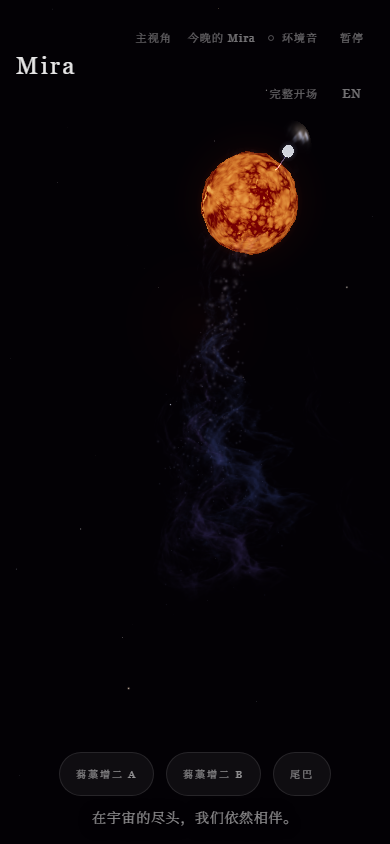
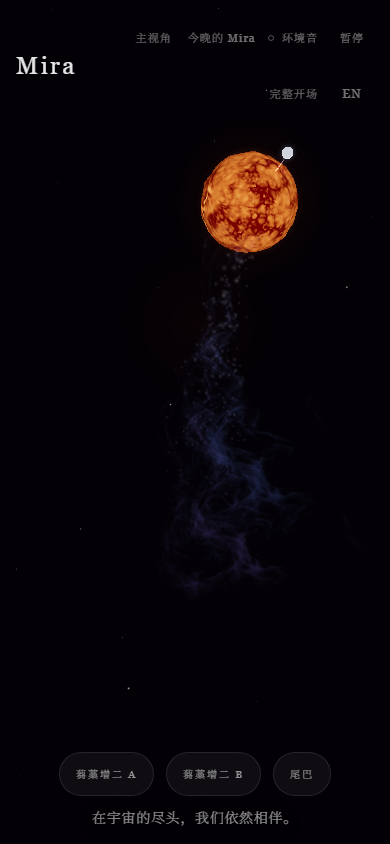
Make capture frames honest in portrait, and settle the review's P3 leftovers (#104)
* Make capture frames honest in portrait, and settle the review's P3 leftovers

The capture baseline in portrait bound the stored EXPLORE constant, so at
320x568 an evidence frame parked the pair about 8 screen points above the
framing a viewer actually holds, and the max-light halo read as padding
into the 顶栏 — a composition no viewer ever sees (#102). The baseline now
goes through the same per-aspect pin solve as the live camera; landscape
and the reference aspect are bit-unchanged. The outer haze's clearance
over the control row is pinned at both named widths — the shell's radius
never breathes, only its brightness does.

The three P3 leftovers (#103): the surface noise clock stops borrowing
the retired time-speed name; the frozen-settle 终幕标题 test measures the
real English title box instead of assuming it; and the river veil's far
fade narrows by uniform in portrait so the ribbon accompanies the points
deeper down the long scroll while still dissolving before its cut.

* Add #102's evidence frames: the capture drift, the fix, and the live reference

* Pay the review round: the mid-light evidence pair, and the transitivity note

* Give CI twenty minutes: the 15m wall cancelled a fully green run

diff --git a/tests/e2e/mobile.spec.ts b/tests/e2e/mobile.spec.ts
@@ -2,7 +2,9 @@ import { test, expect } from '@playwright/test';
 import type { Page } from '@playwright/test';
 import { openTailCardViaKeyboard } from './helpers';
 import { calculateOrbitalPosition, PHYSICS } from '../../src/constants/physics';
+import { TRANSLATIONS } from '../../src/constants/translations';
 import { resolveOpeningPose } from '../../src/lib/openingTimeline';
+import { TAIL_ROOT } from '../../src/lib/tailPath';
 import {
   PORTRAIT_REFERENCE_ASPECT,
   PORTRAIT_TILT,
@@ -224,6 +226,25 @@ test.describe('竖屏长卷 (#92): the portrait long scroll', () => {
       const starPy = (live[1] / 100) * PORTRAIT_FRAME.height;
       expect(starPy + margin).toBeLessThan(titleBox!.y);
     }
+
+    // #103: PR #100 claimed the 终幕标题 gap held at both language anchors, but the
+    // English title box was never measured. The block is anchored at top-1/3, so the
+    // English subtitle can only wrap downward — the measured box never grows up
+    // toward the pair (at 390×844 it stays one line, same height as the Chinese).
+    // Measured here so the claim is true the honest way.
+    await page.getByTestId('language-toggle').click();
+    await expect(page.getByTestId('opening-subtitle')).toHaveText(TRANSLATIONS.en.subtitle);
+    const enBox = await page.getByTestId('final-title').boundingBox();
+    expect(enBox!.y).toBeCloseTo(titleBox!.y, 0);
+    expect(enBox!.height).toBeGreaterThanOrEqual(titleBox!.height);
+    for (const [name, star] of [
+      ['data-mira-a-screen', 'primary'],
+      ['data-mira-b-screen', 'companion'],
+    ] as const) {
+      const live = await probe(page, name);
+      const { margin } = disc(star);
+      expect((live[1] / 100) * PORTRAIT_FRAME.height + margin).toBeLessThan(enBox!.y);
+    }
   });
 
   test('the 顶栏 never covers the pair (390×844)', async ({ page }) => {
@@ -288,6 +309,41 @@ test.describe('竖屏长卷 (#92): the portrait long scroll', () => {
     const b = await probe(page, 'data-mira-b-screen');
     expect((a[1] / 100) * SE_HEIGHT - marginA).toBeGreaterThan(barBottom);
     expect((b[1] / 100) * SE_HEIGHT - marginB).toBeGreaterThan(barBottom);
+  });
+
+  test('the capture baseline is the live pin-solved framing, whatever the aspect (320×568, #102)', async ({ page }) => {
+    // #102: the capture pose used to bind the stored EXPLORE constant — calibrated
+    // at 390×844 — at whatever aspect the frame had. Bound raw at 320×568 it parked
+    // the pair about 8 screen points higher than the framing a viewer actually
+    // holds, and the max-light halo then read as padding into the 顶栏 in evidence
+    // frames while the live view stayed clear. Evidence frames must show the live
+    // composition: the capture baseline goes through the same per-aspect pin solve.
+    // The equality with the live framing is transitive — the reduced-motion test
+    // above pins the live probes to this same seam — so both reads target it here.
+    // The worst case is expressed with ?epoch= (the halo swells with brightness,
+    // never with uTime).
+    await page.setViewportSize({ width: 320, height: 568 });
+    await page.goto('/?quality=low&capture=1&cam=default&epoch=2027-03-09T00%3A00%3A00Z');
+    await page.waitForLoadState('networkidle');
+    await expect(page.getByTestId('explore-ui')).toBeVisible({ timeout: 15000 });
+    await expect(page.locator('canvas')).toHaveAttribute('data-camera-pose', /.+/, { timeout: 30000 });
+    await page.waitForTimeout(1500);
+
+    // Capture parks the orbit at CAPTURE_TIME (8), so the pair's home for this
+    // frame is the orbital position at t=8 — the seam computes the same numbers.
+    const parked = calculateOrbitalPosition(8, PHYSICS.ORBIT);
+    const SE_ASPECT = 320 / 568;
+    const pose = portraitExplorePose(SE_ASPECT);
+    for (const [name, point] of [
+      ['data-mira-a-screen', parked.primary],
+      ['data-mira-b-screen', parked.companion],
+      ['data-tail-root-screen', TAIL_ROOT],
+    ] as const) {
+      const live = await probe(page, name);
+      const expected = projectToScreenPercent(point, pose, SE_ASPECT, PORTRAIT_TILT);
+      expect(Math.abs(live[0] - expected.x)).toBeLessThan(1.5);
+      expect(Math.abs(live[1] - expected.y)).toBeLessThan(1.5);
+    }
   });
 
   test('landscape keeps its own wide vista — not the portrait frame cropped (844×390)', async ({

diff --git a/src/components/Scene/RiverVeil.tsx b/src/components/Scene/RiverVeil.tsx
@@ -6,7 +6,7 @@ import type { QualityTier } from '../../constants';
 import { useEntryReadiness } from '../../hooks';
 import { materialFade } from '../../lib/entryReadiness';
 import { qualityBudget } from '../../lib/qualityBudget';
-import { veilRibbon, veilSide } from '../../lib/tailPath';
+import { veilRibbon, veilSide, VEIL_FAR_SPAN, PORTRAIT_VEIL_FAR_SPAN } from '../../lib/tailPath';
 import { advanceTime, parkedFade } from '../../lib/captureMode';
 import {
   MIRA_A_REACH,
@@ -43,6 +43,7 @@ const fragmentShader = `
   uniform float uReady;
   uniform float uLayer;
   uniform float uAccent;
+  uniform float uFarSpan;
   uniform vec2 uUvScale;
   uniform vec2 uUvOffset;
   uniform vec3 uColor;
@@ -75,7 +76,11 @@ const fragmentShader = `
     float lane = exp(-pow((vUv.y - laneCenter) / .19, 2.));
     float volume = smoothstep(.08, .78, density);
     float filament = smoothstep(.42, .88, density) * lane;
-    float edge = smoothstep(0., .08, vUv.x) * (1. - smoothstep(.94, 1., vUv.x));
+    // The far fade's width comes in as a uniform (#103): landscape binds
+    // VEIL_FAR_SPAN — the same number that used to be the literal here, bit-exact —
+    // and portrait binds PORTRAIT_VEIL_FAR_SPAN so the ribbon's body eases out
+    // later, mirroring the points' own portrait far fade (tailPath owns both).
+    float edge = smoothstep(0., uFarSpan, vUv.x) * (1. - smoothstep(.94, 1., vUv.x));
     edge *= smoothstep(0., .12, vUv.y) * (1. - smoothstep(.88, 1., vUv.y));
 
     // Lit near the stars, easing into cool (not black) shadow down the tail.
@@ -119,6 +124,7 @@ function createLayer(length: number, index: number, count: number, accent: boole
       uMap: { value: null }, uReady: { value: 0 }, uTime: { value: 0 },
       uOpacity: { value: 0 }, uLayer: { value: index },
       uAccent: { value: accent ? 1 : 0 },
+      uFarSpan: { value: VEIL_FAR_SPAN },
       uUvScale: { value: new THREE.Vector2(1.03 + index * .17, .92 + (index % 3) * .21) },
       uUvOffset: { value: new THREE.Vector2(index * .193, index * .117) },
       uColor: { value: new THREE.Color(accent
@@ -137,7 +143,7 @@ function createLayer(length: number, index: number, count: number, accent: boole
   return { geometry, material };
 }
 
-export default function RiverVeil({ opacityRef, readyRef, length, reduceMotion, miraBRef, sky, tier }: {
+export default function RiverVeil({ opacityRef, readyRef, length, reduceMotion, miraBRef, sky, tier, portrait }: {
   opacityRef: MutableRefObject<number>;
   readyRef: MutableRefObject<boolean>;
   length: number;
@@ -148,6 +154,9 @@ export default function RiverVeil({ opacityRef, readyRef, length, reduceMotion, 
   sky: DailySkyCoupling;
   // The governed tier — same source Scene spends the rest of the budget from.
   tier: QualityTier;
+  // 竖屏长卷 (#103): the ribbon's far fade eases later in the tall frame, the veil's
+  // own half of the points' portrait far fade (PORTRAIT_VEIL_FAR_SPAN).
+  portrait: boolean;
 }) {
   const groupRef = useRef<THREE.Group>(null);
   const bWorldPos = useRef(new THREE.Vector3());
@@ -224,6 +233,8 @@ export default function RiverVeil({ opacityRef, readyRef, length, reduceMotion, 
       material.uniforms.uReady.value = ready;
       material.uniforms.uTime.value = advanceTime(material.uniforms.uTime.value, delta, { reduceMotion });
       const isAccent = material.uniforms.uAccent.value === 1;
+      // Written every frame like the tail's own uFarFade, so a rotation flips it.
+      material.uniforms.uFarSpan.value = portrait ? PORTRAIT_VEIL_FAR_SPAN : VEIL_FAR_SPAN;
       material.uniforms.uOpacity.value = opacityRef.current * veilLayerWeight(i, count, isAccent) / count * sky.density;
       material.uniforms.uMiraBPos.value.copy(bWorldPos.current);
       material.uniforms.uSkyGain.value = sky.gain;

diff --git a/tests/unit/portraitFraming.spec.ts b/tests/unit/portraitFraming.spec.ts
@@ -11,6 +11,7 @@ import {
   screenDiscRadiusPercent,
 } from '../../src/lib/portraitFraming';
 import { TAIL_ROOT, tailCenterline, tailFarEnd, tailMidProbe, yawY } from '../../src/lib/tailPath';
+import { MIRA_A_ATMOSPHERE } from '../../src/shaders/miraA';
 
 // 竖屏长卷 (#92): the portrait free-viewing framing as geometry, not pixels. The
 // pair's home configuration and the road's anchors are projected through the poses
@@ -187,6 +188,31 @@ test.describe('竖屏长卷: the road runs down the long axis at 390×844', () =
       const star = projectToScreenPercent(home, poseSe, SE, PORTRAIT_TILT);
       const disc = screenDiscRadiusPercent(star, radius * DISC_MARGIN, poseSe, SE, PORTRAIT_TILT);
       expect(star.y - disc).toBeGreaterThan(TOP_BAR_BOTTOM_PERCENT_SE + 0.5);
+    }
+  });
+
+  test('#102: the outer haze edge stays below the control row at both named widths', () => {
+    // The wide outer haze (1.8× the photosphere, additively blended) is the halo's
+    // full geometric reach, and its shell radius never breathes — only the core
+    // inside it does — so this one edge holds at every phase of the cycle,
+    // including maximum light where the haze is brightest (the brightness swells
+    // the glow's intensity, never its geometry). The control row's bottom edge is
+    // 60px in the DOM at both named widths (measured in e2e); the bar's own padding
+    // below the row may carry the haze's faint tail — that brush is the documented
+    // standard in the disc tests above — but the row the controls sit on stays
+    // clear with margin.
+    const CONTROL_ROW_BOTTOM: Record<number, number> = { [REF]: (60 / 844) * 100, [SE]: (60 / 568) * 100 };
+    for (const aspect of [REF, SE]) {
+      const poseHaze = portraitExplorePose(aspect);
+      const star = projectToScreenPercent(HOME_A, poseHaze, aspect, PORTRAIT_TILT);
+      const haze = screenDiscRadiusPercent(
+        star,
+        PHYSICS.MIRA_A.radius * MIRA_A_ATMOSPHERE.outer.scale,
+        poseHaze,
+        aspect,
+        PORTRAIT_TILT,
+      );
+      expect(star.y - haze).toBeGreaterThan(CONTROL_ROW_BOTTOM[aspect] + 1);
     }
   });
 

diff --git a/tests/unit/shaderParity.spec.ts b/tests/unit/shaderParity.spec.ts
@@ -17,7 +17,7 @@ import {
 import { TailVertexShader, TailFragmentShader, createTailMaterial } from '../../src/shaders/tail';
 import { MiraA_Shader, HIGHLIGHT_SHOULDER_GLSL, PULSE_RATE } from '../../src/shaders/miraA';
 import { AccretionDisk_Shader, DISK_ALPHA_GAIN } from '../../src/shaders/accretionDisk';
-import { TAIL_FADE_IN, TAIL_FAR_FADE, PORTRAIT_FAR_FADE_SCALE } from '../../src/lib/tailPath';
+import { TAIL_FADE_IN, TAIL_FAR_FADE, PORTRAIT_FAR_FADE_SCALE, VEIL_FAR_SPAN, PORTRAIT_VEIL_FAR_SPAN } from '../../src/lib/tailPath';
 import {
   SURFACE_DETAIL_FLOOR,
   PULSE_LIGHT_SWING,
@@ -105,6 +105,19 @@ test.describe('veil shader stays in step with riverLighting', () => {
 
   test('the GLSL mirrors the falloff formula', () => {
     expect(veilSource).toContain('return 1.0 / (1.0 + x * x);');
+  });
+
+  // #103: the ribbon's far fade follows the points' portrait softening in its own
+  // vocabulary — the window narrows by uniform, landscape binds the shared span
+  // constant, and the fade still reaches zero at vUv.x 0 so the ribbon's geometric
+  // cut stays hidden in either orientation (the points, having no cut, soften
+  // further — see PORTRAIT_FAR_FADE_SCALE above).
+  test('the veil far fade narrows by the portrait span uniform (#103)', () => {
+    expect(veilSource).toContain('float edge = smoothstep(0., uFarSpan, vUv.x) * (1. - smoothstep(.94, 1., vUv.x));');
+    expect(veilSource).toContain('uFarSpan: { value: VEIL_FAR_SPAN }');
+    expect(veilSource).toContain('portrait ? PORTRAIT_VEIL_FAR_SPAN : VEIL_FAR_SPAN');
+    expect(PORTRAIT_VEIL_FAR_SPAN).toBeGreaterThan(0);
+    expect(PORTRAIT_VEIL_FAR_SPAN).toBeLessThan(VEIL_FAR_SPAN);
   });
 });
 

diff --git a/src/components/Scene/Scene.tsx b/src/components/Scene/Scene.tsx
@@ -21,7 +21,7 @@ import { cameraAwayFromMainView } from '../../lib/topBarVisibility';
 import { cancelReturnFlight, fittedFov, initialFreeViewState, stepFreeViewCamera } from '../../lib/freeViewCamera';
 import type { FlightPose } from '../../lib/freeViewCamera';
 import { sharedJourney } from '../../lib/sharedJourney';
-import { PORTRAIT_TILT } from '../../lib/portraitFraming';
+import { PORTRAIT_TILT, portraitExplorePose } from '../../lib/portraitFraming';
 import { TAIL_OCCUPANCY, TAIL_ROOT, tailFarEnd, tailHeading, tailMidProbe } from '../../lib/tailPath';
 import {
   driveQualityGovernor,
@@ -271,7 +271,14 @@ function SceneContent({
       inputSeq: store.inputSeq,
       epilogueCamera: control.epilogueCamera,
       reduceMotion,
-      capturePose: capture.active && store.introComplete ? resolveCapturePose(capture.camera, CAMERA.EXPLORE) : null,
+      // #102: evidence frames must show the composition a viewer holds. The live
+      // explore aim in portrait is the per-aspect pin solve; binding the stored
+      // constant here parked the pair ~8 screen points high at 320×568 and made the
+      // max-light halo read as padding into the 顶栏 in capture frames only. At the
+      // reference aspect the solve IS the stored constant, bit for bit.
+      capturePose: capture.active && store.introComplete
+        ? resolveCapturePose(capture.camera, portrait ? portraitExplorePose(camera.aspect) : CAMERA.EXPLORE)
+        : null,
       camera: {
         position: flightCamera.position,
         target: flightCamera.target,

diff --git a/src/lib/tailPath.ts b/src/lib/tailPath.ts
@@ -96,6 +96,17 @@ export const TAIL_FAR_FADE = 0.85;
 // binds the identity 1, bit-exact.
 export const PORTRAIT_FAR_FADE_SCALE = 0.93;
 
+// The river veil ribbons' own far fade, in vUv.x (their uv runs tail-ward: the
+// far end is vUv.x 0). The ribbon's far tip is a geometric cut, so unlike the
+// points — whose portrait fade never quite reaches zero — the veil must still
+// fade TO zero at the tip or the cut shows as a hard edge. The same portrait
+// intent as PORTRAIT_FAR_FADE_SCALE, in the veil's own vocabulary: the window
+// halves, so the ribbon's body accompanies the points deeper into the tall
+// frame (fade start t 0.92 → 0.96) and still dissolves before the cut.
+// Landscape binds VEIL_FAR_SPAN, bit-exact.
+export const VEIL_FAR_SPAN = 0.08;
+export const PORTRAIT_VEIL_FAR_SPAN = 0.04;
+
 // The mid-road probe anchor (#92 review): the point the portrait assertions read
 // for the river's VISIBLE reach — deep inside the strong-alpha body (the far
 // fade only starts past t=0.85 even unscaled), never the far end, whose own

diff --git a/src/shaders/miraA.ts b/src/shaders/miraA.ts
@@ -141,11 +141,13 @@ export const MiraA_Shader = {
 
       // Pulsation: 332-day period scaled to ~8 second visual rhythm
       float pulsePhase = sin(uTime * ${PULSE_RATE}) * 0.5 + 0.5; // ~8s period
-      float timeSpeed = uTime * (0.1 + uTurbulence * 1.5);
+      // The noise's own clock, sped up by turbulence — not a viewer-facing time
+      // speed (that control is gone, #89); the name keeps them apart.
+      float noiseTime = uTime * (0.1 + uTurbulence * 1.5);
       float noiseAmp = uNoiseAmp * (0.8 + pulsePhase * 0.4);
 
-      float lowFreq = snoise(position * (0.5 + uTurbulence * 1.0) + timeSpeed);
-      float highFreq = snoise(position * (2.0 + uTurbulence * 2.0) - timeSpeed * 2.0);
+      float lowFreq = snoise(position * (0.5 + uTurbulence * 1.0) + noiseTime);
+      float highFreq = snoise(position * (2.0 + uTurbulence * 2.0) - noiseTime * 2.0);
 
       vNoise = lowFreq * 0.7 + highFreq * 0.3;
 

diff --git a/src/lib/portraitFraming.ts b/src/lib/portraitFraming.ts
@@ -5,8 +5,10 @@
 // aspect) and then PINNED: whatever the phone's exact proportions, the 根 holds
 // the same screen point, so the 顶栏 never covers the pair on a short screen and
 // the road always reaches the lower half on a tall one. Only the aim moves with
-// aspect — the camera position is aspect-independent, so 主视角's home check and
-// the capture fallback read the constant unchanged.
+// aspect — the camera position is aspect-independent, so 主视角's home check reads
+// the constant unchanged, and the capture baseline goes through this same solve
+// (#102: evidence frames show the live composition at every aspect, not the
+// reference-calibrated aim bound raw).
 //
 // Landscape is untouched by all of this: it keeps its own wide vista (the road
 // from between the pair toward the left), never this composition cropped narrow.

diff --git a/src/components/Scene/MiraTail.tsx b/src/components/Scene/MiraTail.tsx
@@ -133,7 +133,7 @@ export default function MiraTail({
   return (
     <group>
       <points ref={pointsRef} geometry={geometry} material={material} raycast={() => {}} />
-      <RiverVeil opacityRef={opacityRef} readyRef={textureReadyRef} length={tailLength} reduceMotion={reduceMotion} miraBRef={miraBRef} sky={coupling} tier={tier} />
+      <RiverVeil opacityRef={opacityRef} readyRef={textureReadyRef} length={tailLength} reduceMotion={reduceMotion} miraBRef={miraBRef} sky={coupling} tier={tier} portrait={portrait} />
     </group>
   );
 }

diff --git a/docs/evidence-102/README.md b/docs/evidence-102/README.md
@@ -1,0 +1,20 @@
+# #102 的证据帧（320×568@2x，顶栏条带裁片）
+
+五张对照：极大期（epoch 2027-03-09）与中段亮度（epoch 2026-09-12）各一对 dev capture（`?capture=1&cam=default`）修前/修后，加一张直播参照帧。
+配方相同，只有 epoch 与修复前后之分；每帧按行采样 R−B 色差（x 45–95% 列带）。控件行底缘实测 60px（10.6%）。
+
+- `before-capture-se-maxlight.png` / `before-capture-se-midlight.png` — 修复前的 capture 帧：capture 基准机位绑存储常量，星位比直播构图高 ~8 个屏点，外壳辉光垫进控件行（极大期行内 R−B +15~+26，中段 +10~+15；「完整开场」文字偏暖）。
+- `after-capture-se-maxlight.png` / `after-capture-se-midlight.png` — 同配方修复后：capture 走逐比例钉位解，与直播一致；两种亮度下控件行整段中性（R−B ≈ −2），暖边 11.6% 起。外壳半径不随呼吸脉动（只有壳内核与亮度随周期走），所以中段与极大期共用同一几何边。
+- `live-se-maxlight.png` — 直播参照帧（无 capture）：一直如此——控件行干净，外壳几何边 12.0%（净空 ~8px），可见暖边 12.7% 起。
+
+修前后逐行数值（R−B，控件行底缘 10.6%；采样 x 45–95% 列带）：
+
+| 屏高 % | 极大期·修前 | 极大期·修后 | 中段·修前 | 中段·修后 | 直播（极大期） |
+|---|---|---|---|---|---|
+| 4.2 | +4.6 | −2.0 | +2.1 | −2.0 | −2.0 |
+| 5.6 | +11.7 | −2.0 | +7.3 | −2.0 | −2.0 |
+| 7.0（按钮行内） | +15.1 | −1.9 | +9.9 | −1.9 | −1.9 |
+| 8.5 | +26.2 | −2.0 | +17.8 | −2.0 | −1.9 |
+| 10.2 | +52.8 | −2.0 | +42.1 | −2.0 | −2.0 |
+| 11.6 | +64.7 | +4.0 | +53.6 | +1.8 | +0.8 |
+| 12.7 | +70.3 | +9.3 | +59.0 | +5.8 | +6.2 |
